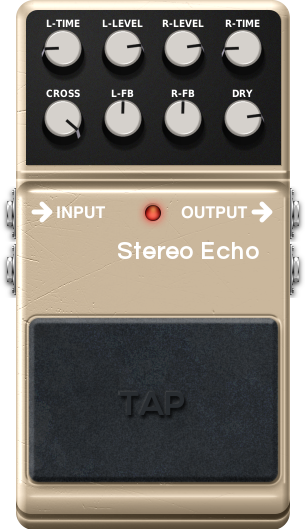
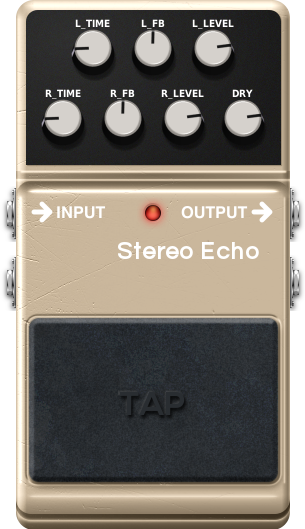
fixed tap stereo echo most zipper noise

diff --git a/echo/modgui/icon-tap-stereo-echo.html b/echo/modgui/icon-tap-stereo-echo.html
@@ -1,4 +1,4 @@
-<div class="mod-pedal mod-pedal-japanese{{{cns}}} mod-eight-knobs mod-{{color}} {{color}}">
+<div class="mod-pedal mod-pedal-japanese{{{cns}}} mod-seven-a-knobs mod-{{color}} {{color}}">
     <div mod-role="drag-handle" class="mod-drag-handle"></div>
     <div class="mod-plugin-brand"><h1>{{brand}}</h1></div>
     <div class="mod-plugin-name"><h1>{{label}}</h1></div>

diff --git a/echo/tap_echo.c b/echo/tap_echo.c
@@ -24,7 +24,7 @@
 #include <string.h>
 #include <math.h>
 
-#include <lv2.h>
+#include "lv2.h"
 #include "tap_utils.h"
 
 /* The Unique ID of the plugin: */
@@ -67,8 +67,11 @@ typedef struct {
 	float * feedback_L;
 	float * feedback_R;
 	float * strength_L;
+	float smoothstrength_L; //for parametersmoothing
 	float * strength_R;
+	float smoothstrength_R; //for parametersmoothing
 	float * drylevel;
+	float smoothdry; //for parametersmoothing
 	float * mode;
 	float * haas;
 	float * rev_outch;
@@ -99,6 +102,9 @@ instantiate_Echo(const LV2_Descriptor * Descriptor, double SampleRate, const cha
 
 	if ((ptr = malloc(sizeof(Echo))) != NULL) {
 		((Echo *)ptr)->sample_rate = SampleRate;
+		((Echo *)ptr)->smoothdry = -4.0f;
+		((Echo *)ptr)->smoothstrength_L = -4.0f;
+		((Echo *)ptr)->smoothstrength_R = -4.0f;
 
 		/* allocate memory for ringbuffers and related dynamic vars */
 		if ((((Echo *)ptr)->ringbuffer_L =
@@ -256,9 +262,20 @@ run_Echo(LV2_Handle Instance,
 	delaytime_R = LIMIT(*(ptr->delaytime_R),0.0f,2000.0f);
 	feedback_L = LIMIT(*(ptr->feedback_L) / 100.0, 0.0f, 100.0f);
 	feedback_R = LIMIT(*(ptr->feedback_R) / 100.0, 0.0f, 100.0f);
-        strength_L = db2lin(LIMIT(*(ptr->strength_L),-70.0f,10.0f));
-	strength_R = db2lin(LIMIT(*(ptr->strength_R),-70.0f,10.0f));
-	drylevel = db2lin(LIMIT(*(ptr->drylevel),-70.0f,10.0f));
+
+	float calcstrength_L = (*(ptr->strength_L)+ptr->smoothstrength_L)*0.5; //smoothing
+	ptr->smoothstrength_L=calcstrength_L; //saving
+	strength_L = db2lin(LIMIT(calcstrength_L,-70.0f,10.0f)); //convert to db and influence the actual audiobuffer
+
+	float calcstrength_R = (*(ptr->strength_R)+ptr->smoothstrength_R)*0.5; //smoothing
+	ptr->smoothstrength_R = calcstrength_R; //saving
+	strength_R = db2lin(LIMIT(calcstrength_R,-70.0f,10.0f)); //convert to db and influence the actual audiobuffer
+
+	float calcdrylevel = (*(ptr->drylevel)+ptr->smoothdry)*0.5; //smoothing
+	ptr->smoothdry = calcdrylevel; //saving
+	drylevel = db2lin(LIMIT(calcdrylevel,-70.0f,10.0f));//convert to db and influence the actual audiobuffer
+
+
 	mode = LIMIT(*(ptr->mode),-2.0f,2.0f);
 	haas = LIMIT(*(ptr->haas),-2.0f,2.0f);
 	rev_outch = LIMIT(*(ptr->rev_outch),-2.0f,2.0f);
